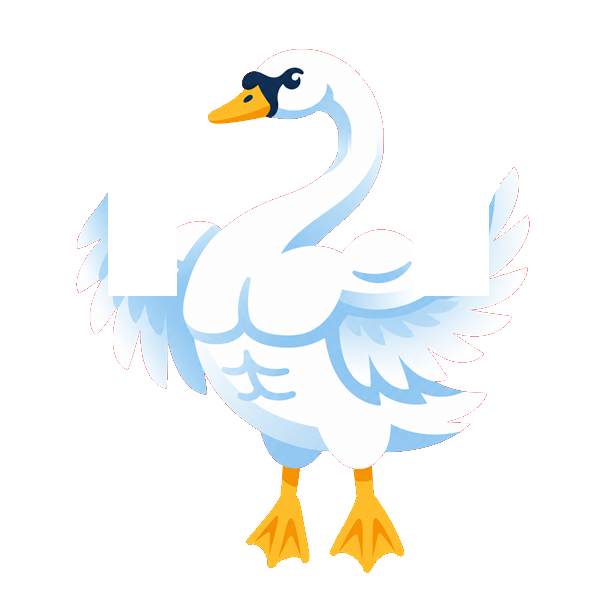
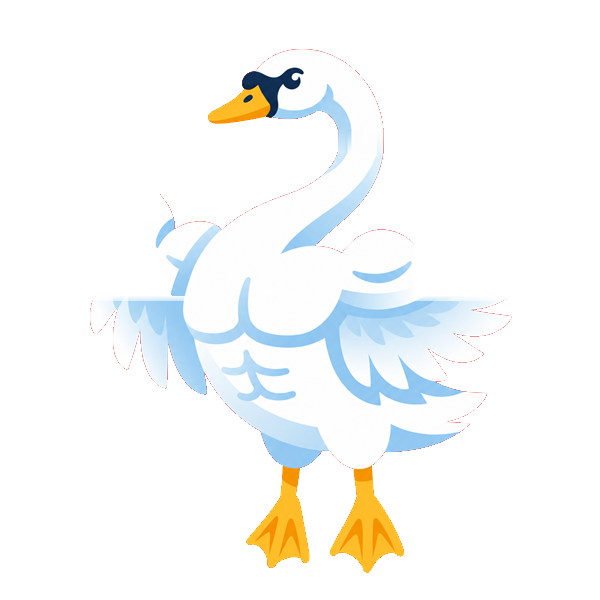
Swan-Klimmzug: aeussere Fluegel stauchen sich mit den Unterarmen

diff --git a/css/styles.css b/css/styles.css
@@ -1290,7 +1290,7 @@ h2 {
 
 @keyframes swan-arm-bend {
     0%, 8% { transform: scale(1, 1); }
-    40%, 56% { transform: scale(1.16, 0.46); }
+    40%, 56% { transform: scale(1.08, 0.46); }
     88%, 100% { transform: scale(1, 1); }
 }
 

diff --git a/CLAUDE.md b/CLAUDE.md
@@ -77,10 +77,11 @@ Erledigt:
 - Swan-Klimmzug überarbeitet (2026-10-18): Arme sind eigene Ebenen (`swan-arm-left/right`), hängen an den Fäusten und werden beim Hochziehen gestaucht und breiter (Bizeps); Kanten mit Matting statt rosa Saum. Schwäche: senkrechte Schnittkanten der Arm-Ebenen sichtbar.
 - **Version B: Swan aus reinem CSS** (2026-10-18, Wunsch von Nicolas zum Vergleich): Kreis, Stange, Flügel, Körper, Hals, Kopf, Beine aus CSS-Formen in `cqw`-Einheiten; Arme mit echtem Ellbogengelenk (Unterarm an der Faust, Oberarm am Ellbogen), Winkel per Kinematik berechnet (`tools/swan-css-keyframes.js`). Nur auf `swan-vergleich.html` eingebunden, noch nicht auf der Seite.
 - **Entscheidung Swan-Klimmzug (2026-10-18): Nicolas nimmt A (Bild in Ebenen).** Danach rechte Flügelspitze repariert: sie ragte in Faust- und Arm-Ausschnitt und riss beim Hochziehen ab. Jetzt trennt eine schräge Linie Handgelenk und Feder (`InRightWing` in `split-swan.ps1`), Arm-Ausschnitte eng an den Armen (links x 106–178, rechts 412–499 ohne Feder). Rote Linien in der Ruheposition behoben: Browser verkleinert jede Ebene einzeln, an Schnittkanten schien Rot durch → Ebenen überlappen an senkrechten Kanten um 2 px (Körper über Arm, Faust über Feder).
+- Swan-Klimmzug (2026-10-18, Wunsch von Nicolas): Die äußeren Flügel stauchen sich jetzt mit den Unterarmen mit. Arm-Ausschnitte reichen bis zu den Flügelspitzen (links x 55 bis zur Schulterlinie, rechts x 412–548 ab y 160); Innenkante links folgt der Schulter, die im Bild vor dem Arm liegt (Körper überlappt dort 16 px). Biceps-Verbreiterung 1.16 → 1.08, sonst passen die gestauchten Federn an der Unterkante nicht mehr. Körper wird an der Unterkante der Arme über 10 px weich eingeblendet (sonst heller Strich beim Verkleinern).
 - Ideen & Inspiration von n1code.dev (Seite eines Kollegen) gesammelt.
 
 Offen:
-- **Swan-Klimmzug (optional):** Läuft jetzt per CSS mit Ebenen. Ein echtes zweites Gemini-Bild (Prompt in `docs/bild-prompt.md`) wäre nur noch nötig, wenn die Pose stärker wechseln soll (z.B. Brust deutlich über der Stange). Kleine Schwäche: am rechten Unterarm bleibt beim Hochziehen ein feiner senkrechter Übergang zwischen gestauchtem Arm und Flügel.
+- **Swan-Klimmzug (optional):** Läuft jetzt per CSS mit Ebenen. Ein echtes zweites Gemini-Bild (Prompt in `docs/bild-prompt.md`) wäre nur noch nötig, wenn die Pose stärker wechseln soll (z.B. Brust deutlich über der Stange). Kleine Schwäche: auf Schulterhöhe gibt es beim Hochziehen einen Übergang zwischen gestauchtem und normalem Flügel.
 - **Über-mich-Seite (optional):** weitere Links (z.B. LinkedIn, Instagram) und ein echtes Profilfoto statt der „NB“-Kachel, falls Nicolas das möchte.
 - **Gamehub** ist auf GitHub (https://github.com/n-brand/gamehub) und im Portfolio mit Live-Link (https://n-brand.github.io/gamehub/) eingetragen. GitHub Pages zeigt dort aber nur die README („gamehub“): Die App liegt in `public/`, und `public/index.html` nutzt absolute Pfade (`/css/…`, `/js/…`), die unter `/gamehub/` ins Leere zeigen. Lösung im Gamehub-Repo (nicht hier): Pfade relativ machen + GitHub-Actions-Workflow, der `public/` veröffentlicht (Pages-Quelle „GitHub Actions“).
 - **Escape Room:** alle Commits stammen vom GitHub-Nutzer „Emi15454“ – mit Nicolas klären, ob Gruppenarbeit, und ggf. erwähnen.
